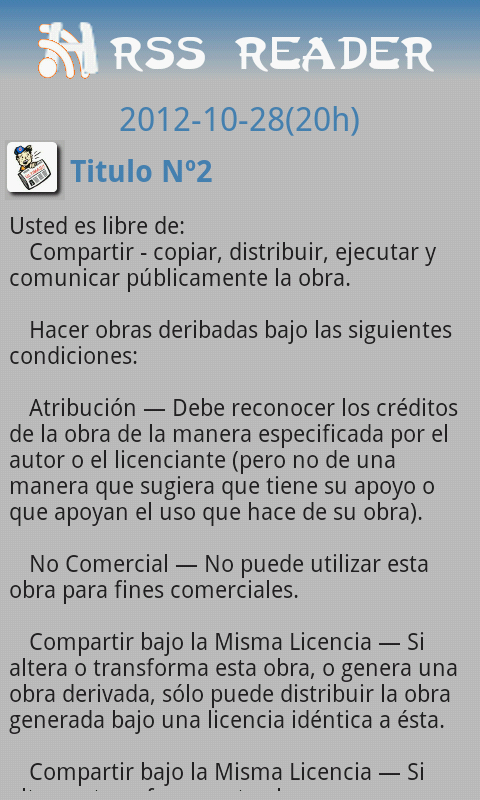
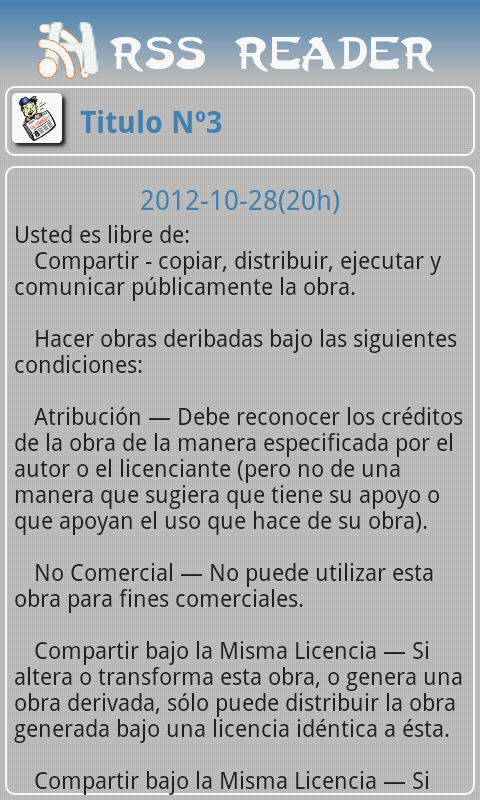
Mejoras esteticas

Changed region(s): [[0.0, 0.0938, 1.0, 1.0]]

diff --git a/herras78/RSSReader/src/com/valles/rssreader/ItemReader.java b/herras78/RSSReader/src/com/valles/rssreader/ItemReader.java
@@ -23,8 +23,8 @@ public class ItemReader extends Activity {
 	    LblTitulo.setTypeface(font1);
 	    
 	    final TextView TxtDate = (TextView) findViewById(R.id.date_reader);
-	    final TextView TxtTit = (TextView) findViewById(R.id.tit_reader);
-	    final ImageView ImgReader = (ImageView)findViewById(R.id.img_reader);
+	    final TextView TxtTit = (TextView) findViewById(R.id.titulo_reader);
+	    final ImageView ImgReader = (ImageView)findViewById(R.id.imgen_reader);
 	    
 	    TxtDate.setText(bundle.getString("FECHA"));
 	    TxtTit.setText(bundle.getString("TITULO"));

diff --git a/herras78/RSSReader/src/com/valles/rssreader/ArticleListActivity.java b/herras78/RSSReader/src/com/valles/rssreader/ArticleListActivity.java
@@ -174,7 +174,7 @@ public class ArticleListActivity extends Activity {
 		long dia = 86400000;
 		long hora = 3600000;
 		long minuto = 60000;
-		String StrElapsedtime = new java.sql.Date(DateIn)+"";
+		String StrElapsedtime = new java.sql.Date(DateIn).toString();
 		
 		if((ElapsedTime/dia)>=1){				
 			StrElapsedtime += "("+(ElapsedTime/dia)+"d)";
